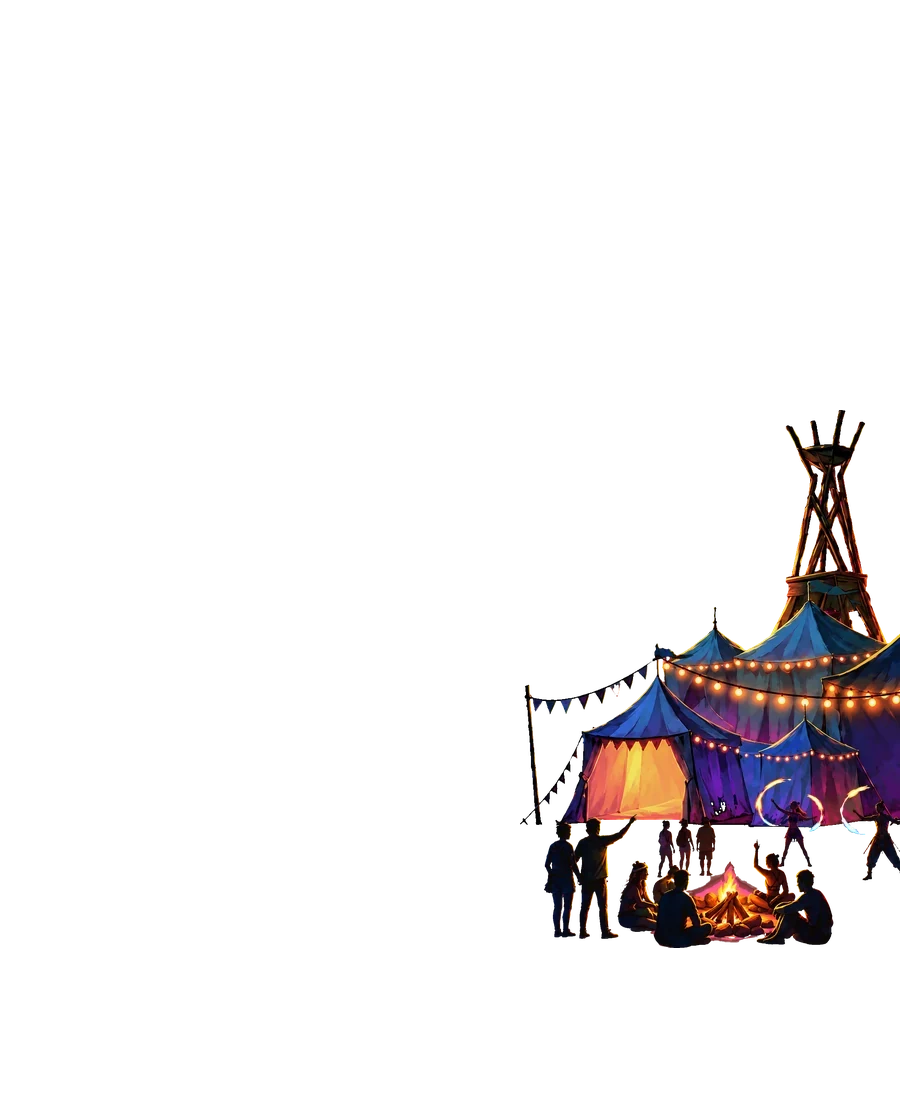
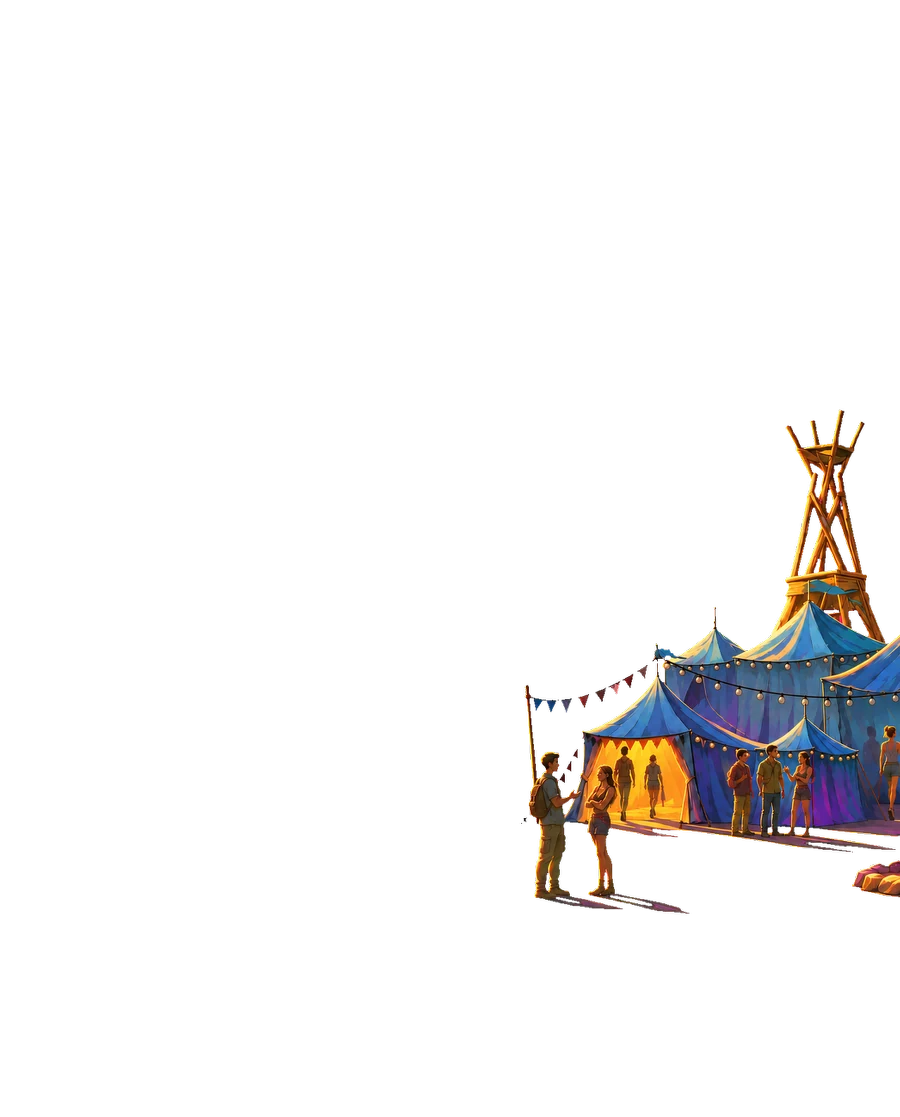
Bloomscroll: daytime tents, queue faces the pizza van, dimmer night sky
Golden hour uses the painted daytime tents; the phone tents are the
same art, mapped onto the phone painting. The night queue is mirrored
to face the pizza van. The night sky's bright band above the hills is
toned down, so the scene reads as night.

Changed region(s): [[0.56, 0.3653, 1.0, 0.8523]]

diff --git a/components/feed/BloomscrollScene.js b/components/feed/BloomscrollScene.js
@@ -18,14 +18,14 @@ import { ART_V, BLOOM_MS, IMG, ROSES, ROSE_SHEET, TINTS, WHITE_ROSES, deck, pain
 
 const MOON = "moon.webp"
 const WIDE_ART = {
-  sky: "sky.webp", far: "far-cut.webp", soft: "far-cut-blur.webp", clouds: "clouds.webp",
+  sky: "sky-night.webp", far: "far-cut.webp", soft: "far-cut-blur.webp", clouds: "clouds.webp",
   fest: "festival-wide.webp", lights: "glow-wide.webp", figures: "cast-wide.webp",
   fest2x: "festival-wide@2x.webp", figures2x: "cast-wide@2x.webp",
   near: "near.webp", tallL: "trees-tall-left.webp", tallR: "trees-tall-right.webp", flowers: "near-flowers.webp",
   tall: "far-portrait.webp", tallSoft: "far-portrait-blur.webp",
 }
 const PHONE_ART = {
-  sky: "p-sky.webp", far: "p-far-cut.webp", soft: "p-far-cut-blur.webp", clouds: "p-clouds.webp",
+  sky: "p-sky-night.webp", far: "p-far-cut.webp", soft: "p-far-cut-blur.webp", clouds: "p-clouds.webp",
   fest: "festival-phone.webp", lights: "glow-phone.webp", figures: "cast-phone.webp", flowers: "near-flowers.webp",
 }
 const FAR_LAG = 0.55

diff --git a/styles/pages/bloomscroll.css b/styles/pages/bloomscroll.css
@@ -374,6 +374,7 @@
     left: 51.5%;
     bottom: 25.5%;
     height: 9.06%;
+    transform: translateX(-50%) scaleX(-1);
   }
 
   .tag-bs__layer > .tag-bs__prop-glow {
